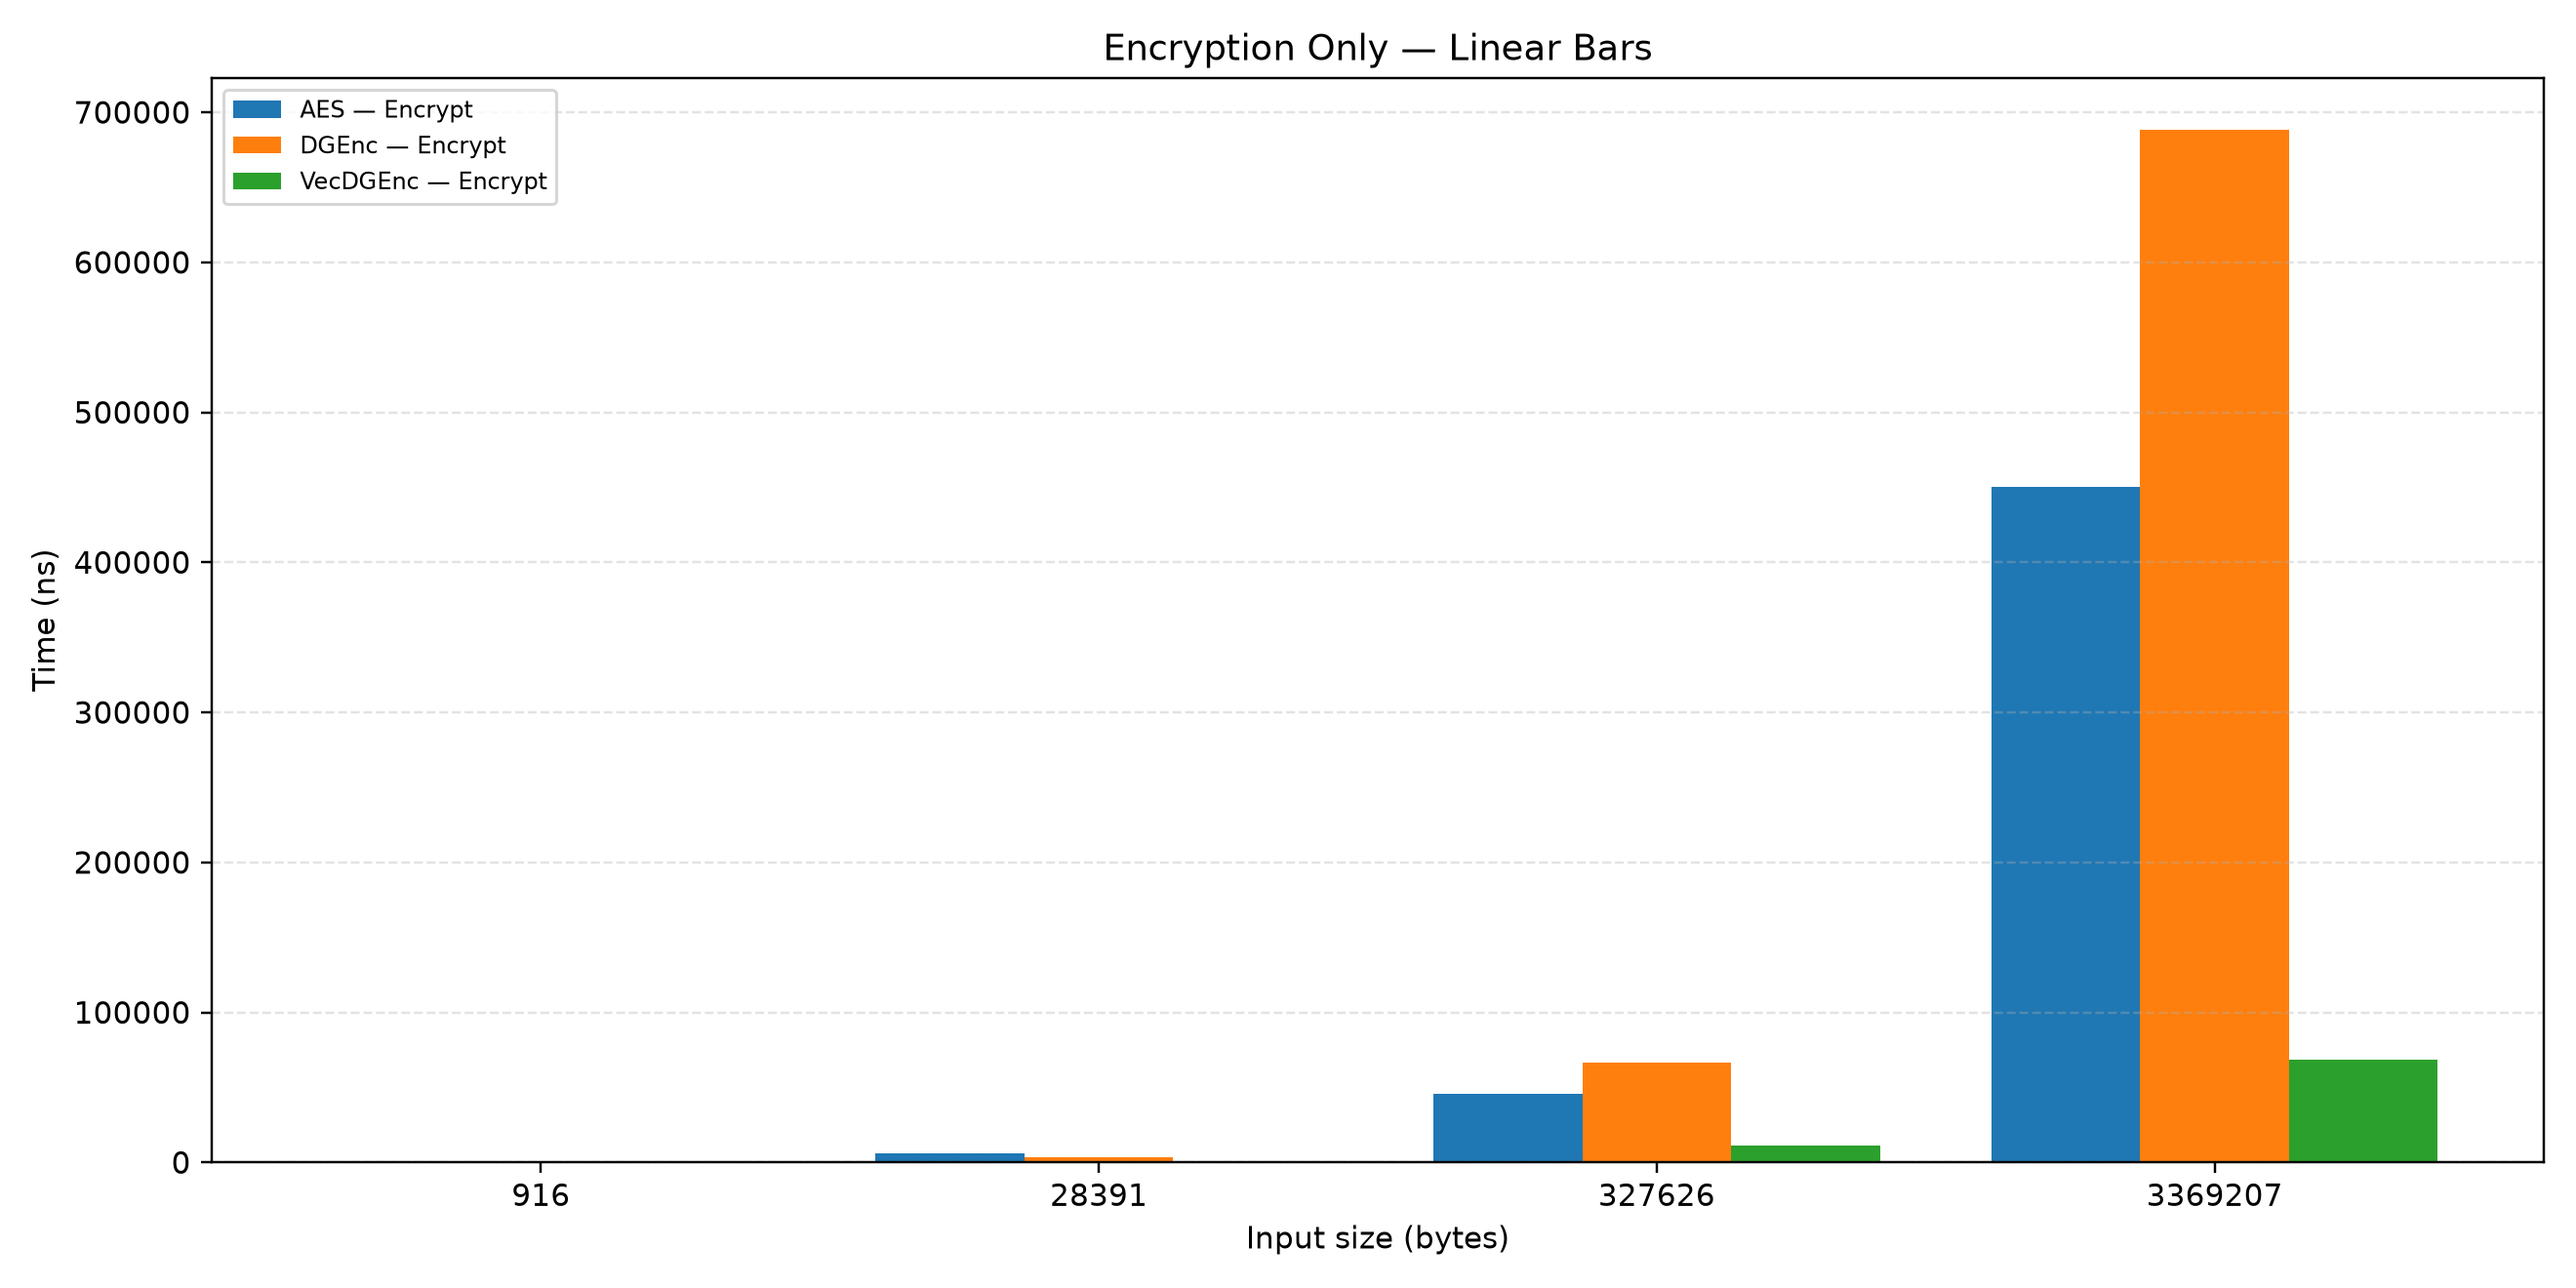
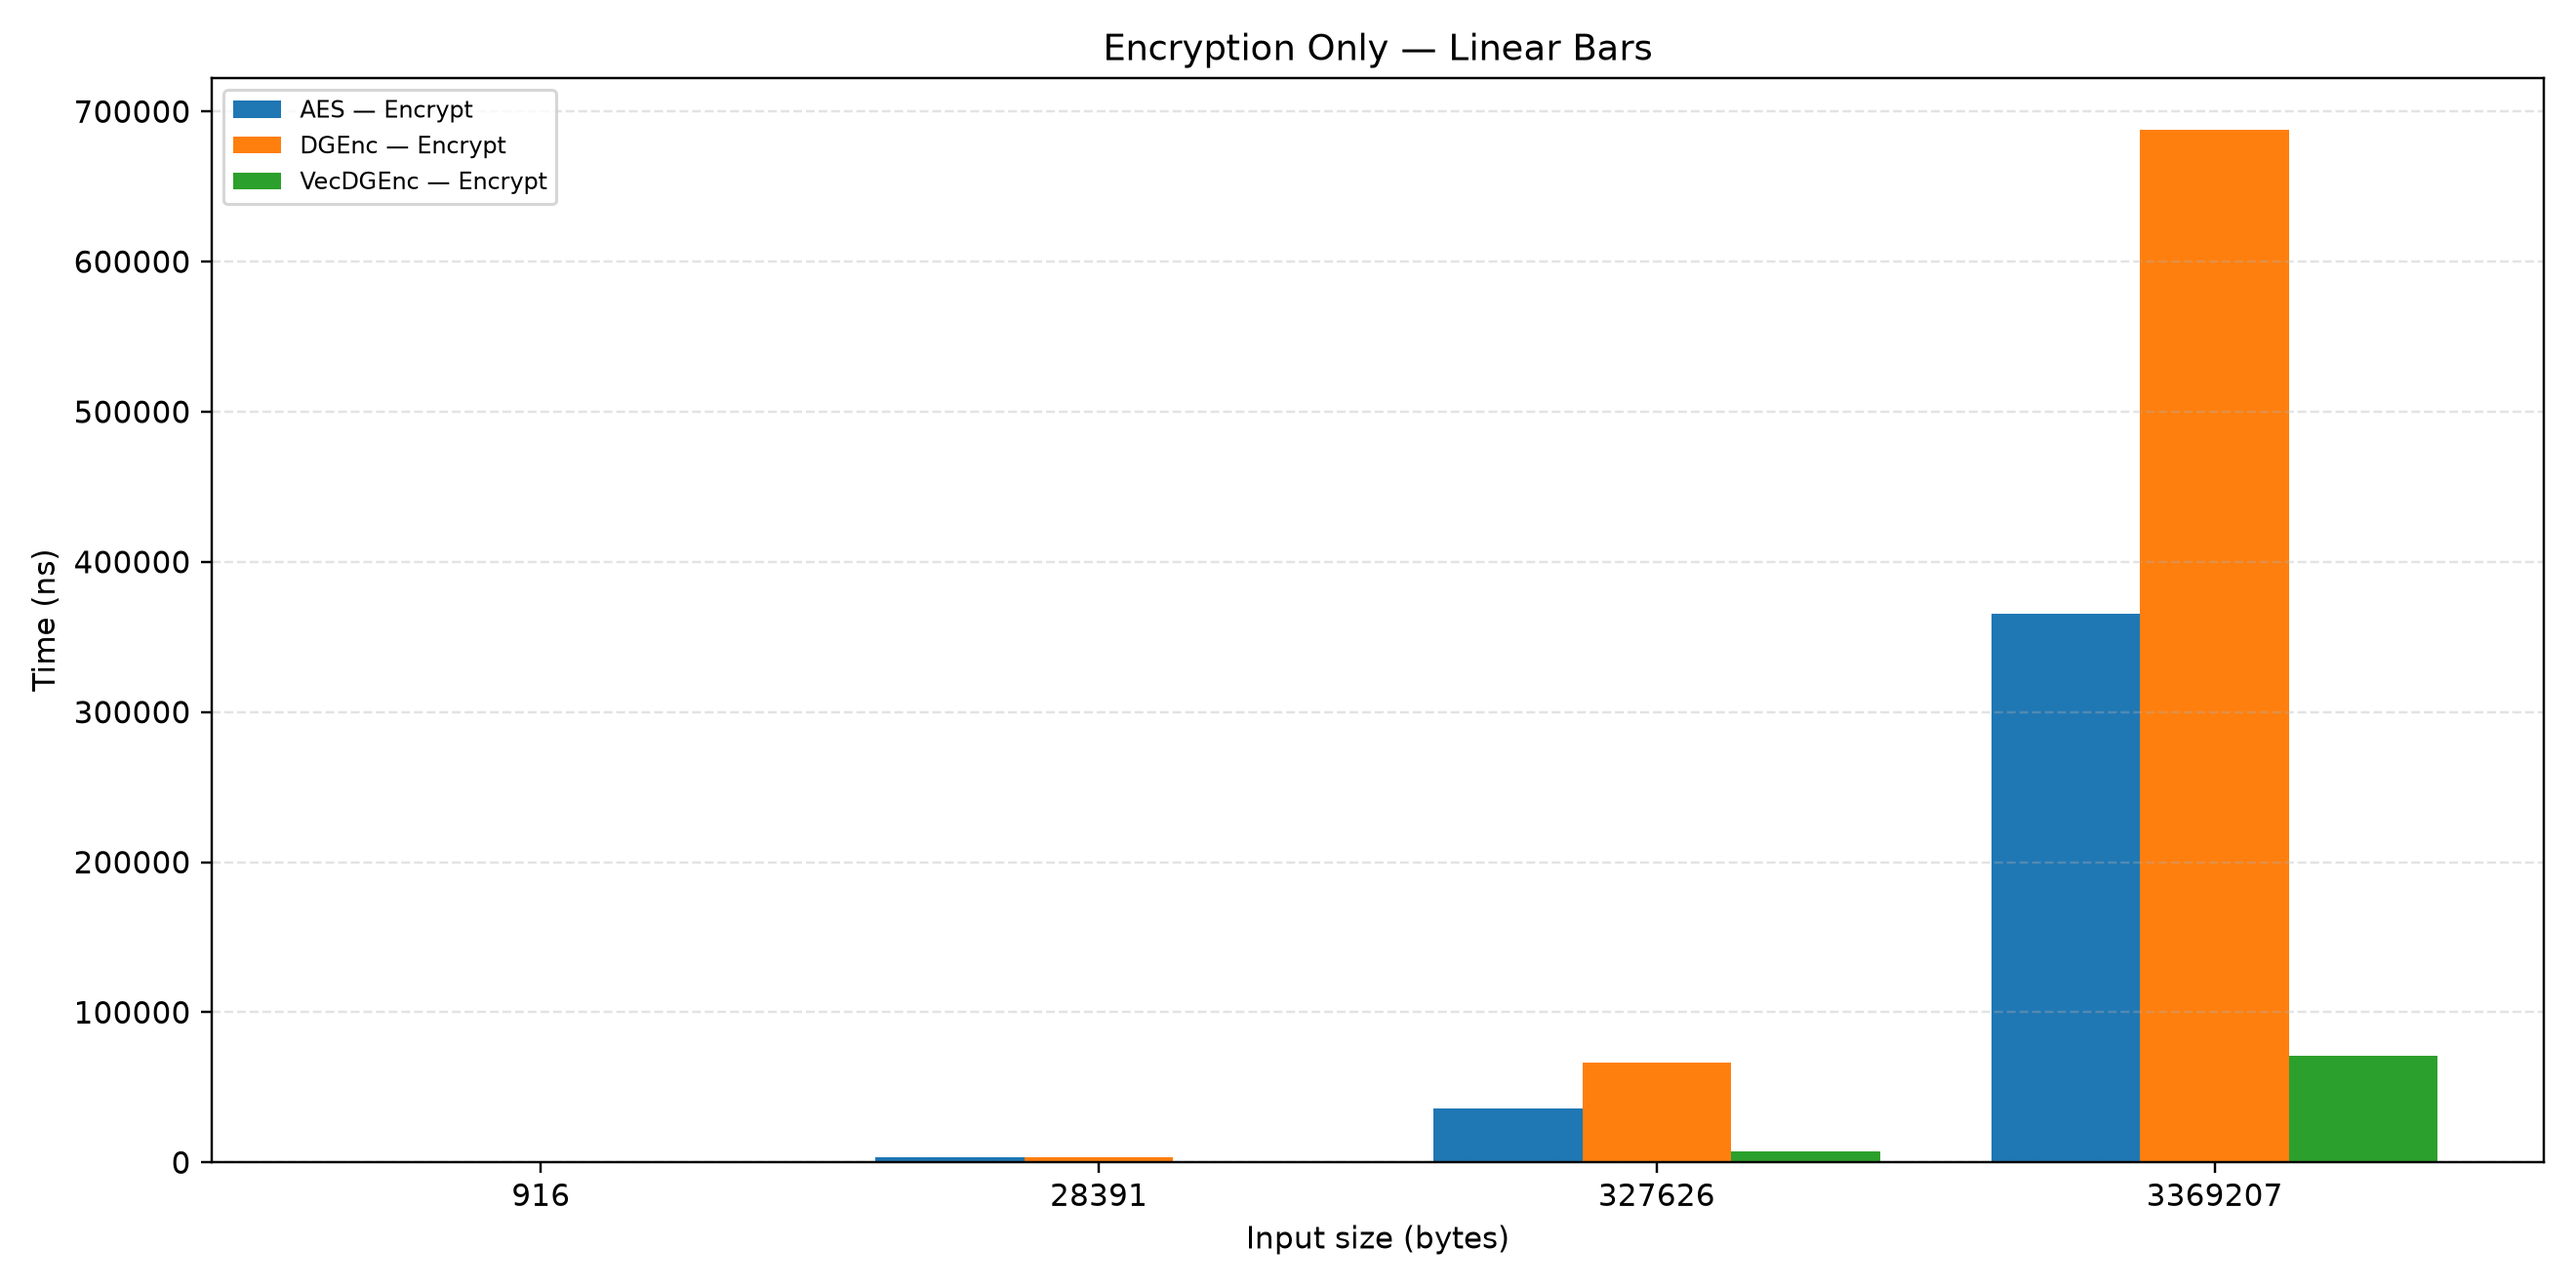
Rerun tests with proper compilation.

diff --git a/graphs.py b/graphs.py
@@ -8,41 +8,38 @@ import numpy as np
 # ==========================================================
 
 DATA = [
-    ("AES", "Encrypt", 916,     895),
-    ("AES", "Encrypt", 28391,   5876),
-    ("AES", "Encrypt", 327626,  45712),
-    ("AES", "Encrypt", 3369207, 450344),
-    ("AES", "Decrypt", 916,     891),
-    ("AES", "Decrypt", 28391,   5867),
-    ("AES", "Decrypt", 327626,  35880),
-    ("AES", "Decrypt", 3369207, 365389),
-
-    ("DGEnc", "Encrypt", 916,     446),
-    ("DGEnc", "Encrypt", 28391,   3550),
-    ("DGEnc", "Encrypt", 327626,  66520),
-    ("DGEnc", "Encrypt", 3369207, 688440),
-    ("DGEnc", "Decrypt", 916,     447),
-    ("DGEnc", "Decrypt", 28391,   3071),
-    ("DGEnc", "Decrypt", 327626,  59083),
-    ("DGEnc", "Decrypt", 3369207, 613439),
-
-    ("VecDGEnc", "Encrypt", 916,     448),
-    ("VecDGEnc", "Encrypt", 28391,   980),
-    ("VecDGEnc", "Encrypt", 327626,  11219),
-    ("VecDGEnc", "Encrypt", 3369207, 68695),
-    ("VecDGEnc", "Decrypt", 916,     457),
-    ("VecDGEnc", "Decrypt", 28391,   913),
-    ("VecDGEnc", "Decrypt", 327626,  10810),
-    ("VecDGEnc", "Decrypt", 3369207, 61813),
-
-    ("RSA", "Encrypt", 916,     197309),
-    ("RSA", "Encrypt", 28391,   5813585),
-    ("RSA", "Encrypt", 327626,  66303299),
-    ("RSA", "Encrypt", 3369207, 683737454),
-    ("RSA", "Decrypt", 916,     2714377),
-    ("RSA", "Decrypt", 28391,   79836274),
-    ("RSA", "Decrypt", 327626,  922226105),
-    ("RSA", "Decrypt", 3369207, 9458576338),
+    ("AES", "Encrypt", 916, 681),
+    ("AES", "Decrypt", 916, 672),
+    ("RSA", "Encrypt", 916, 194803),
+    ("RSA", "Decrypt", 916, 2692168),
+    ("DGEnc", "Encrypt", 916, 452),
+    ("DGEnc", "Decrypt", 916, 444),
+    ("VecDGEnc", "Encrypt", 916, 450),
+    ("VecDGEnc", "Decrypt", 916, 446),
+    ("AES", "Encrypt", 28391, 3482),
+    ("AES", "Decrypt", 28391, 3490),
+    ("RSA", "Encrypt", 28391, 5757237),
+    ("RSA", "Decrypt", 28391, 79717567),
+    ("DGEnc", "Encrypt", 28391, 3461),
+    ("DGEnc", "Decrypt", 28391, 3048),
+    ("VecDGEnc", "Encrypt", 28391, 997),
+    ("VecDGEnc", "Decrypt", 28391, 907),
+    ("AES", "Encrypt", 327626, 35976),
+    ("AES", "Decrypt", 327626, 35849),
+    ("RSA", "Encrypt", 327626, 66247957),
+    ("RSA", "Decrypt", 327626, 918715567),
+    ("DGEnc", "Encrypt", 327626, 66492),
+    ("DGEnc", "Decrypt", 327626, 59031),
+    ("VecDGEnc", "Encrypt", 327626, 7380),
+    ("VecDGEnc", "Decrypt", 327626, 6174),
+    ("AES", "Encrypt", 3369207, 365772),
+    ("AES", "Decrypt", 3369207, 365470),
+    ("RSA", "Encrypt", 3369207, 683323135),
+    ("RSA", "Decrypt", 3369207, 9459991612),
+    ("DGEnc", "Encrypt", 3369207, 687925),
+    ("DGEnc", "Decrypt", 3369207, 615017),
+    ("VecDGEnc", "Encrypt", 3369207, 71292),
+    ("VecDGEnc", "Decrypt", 3369207, 60187),
 ]
 
 # ==========================================================
